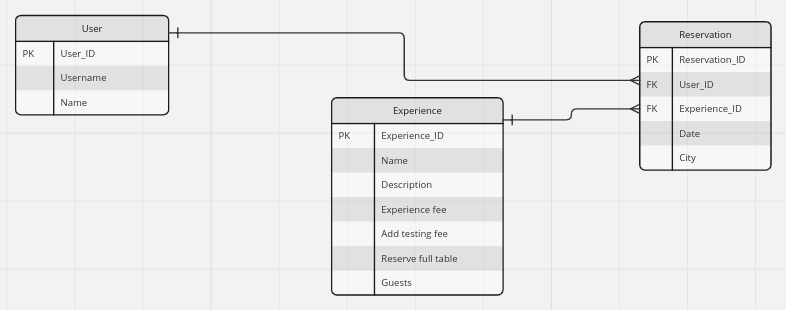
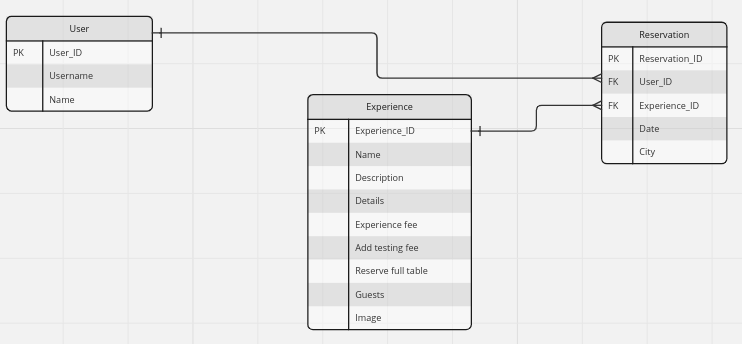
Update ERD

Changed region(s): [[0.0, 0.029, 0.9919, 0.9871]]

diff --git a/db/seeds.rb b/db/seeds.rb
@@ -55,7 +55,7 @@ Experience.create(
   add_testing_fee: 5.18,
   reserve_full_table: 6.91,
   guests: 2,
-  image: 'https://i.postimg.cc/fbbdtmwL/la-cabrera-pilar.jpg',
+  image: 'https://i.postimg.cc/DZJb5h43/cofi-jaus.jpg',
   details: '2 coffees of your choice; 2 orange juices; 1 toasted sirloin and cheddar; 1 serving of pudding; 1 roll or chipá.'
 );
 Experience.create(

diff --git a/README.md b/README.md
@@ -32,7 +32,7 @@
 
 # About <a name="about-project"></a>
 
-**"Final Capstone Back-End"** is an API for saving records of different users, displaying different experiences, and also allowing the registered users to book or cancel an experience. It is made with Ruby on Rails and PostgreSQL.
+**"Final Capstone Back-End"** is an API designed to host various gastronomic experiences, user records, and user reservations for different experiences. The allowed actions in this app are to create a new user, create, delete, and get reservations as well as get experiences. It was designed in Ruby on Rails and PostgreSQL.
 
 ---
 
